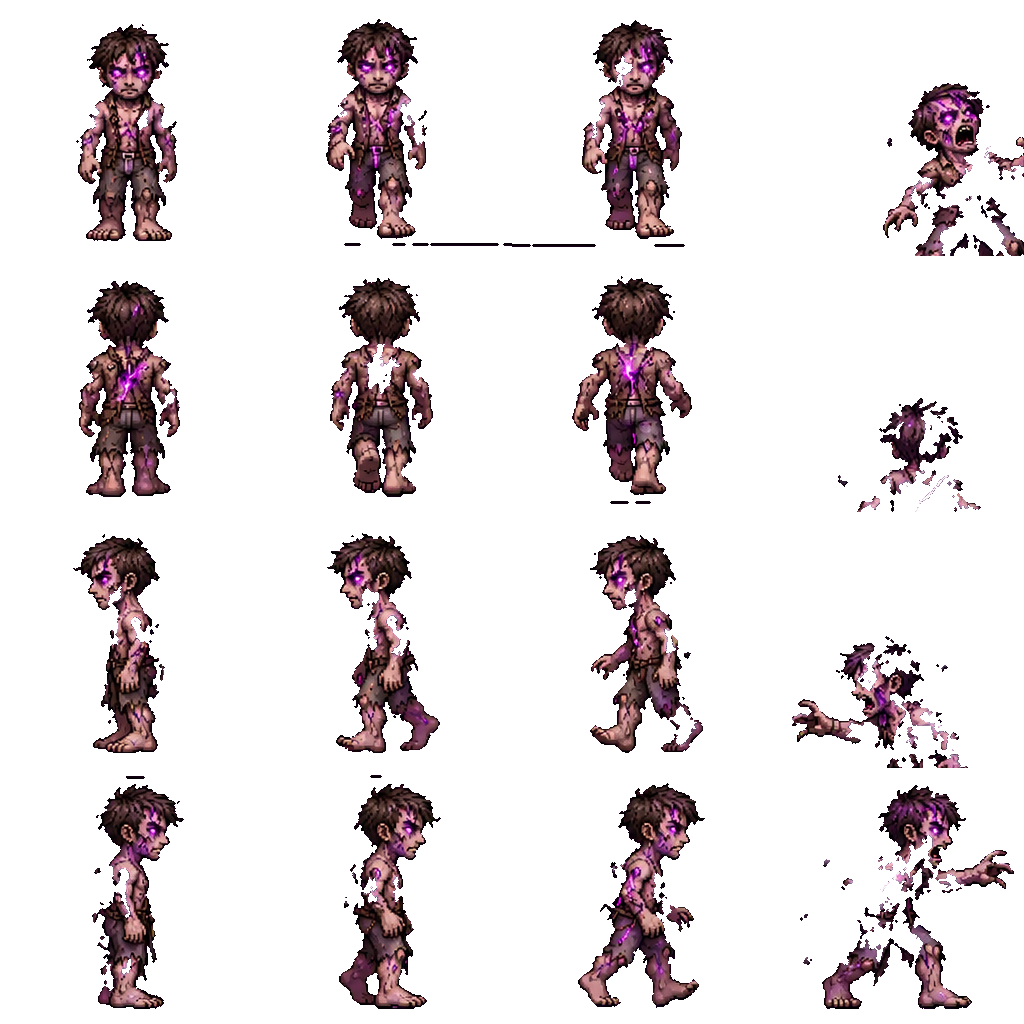
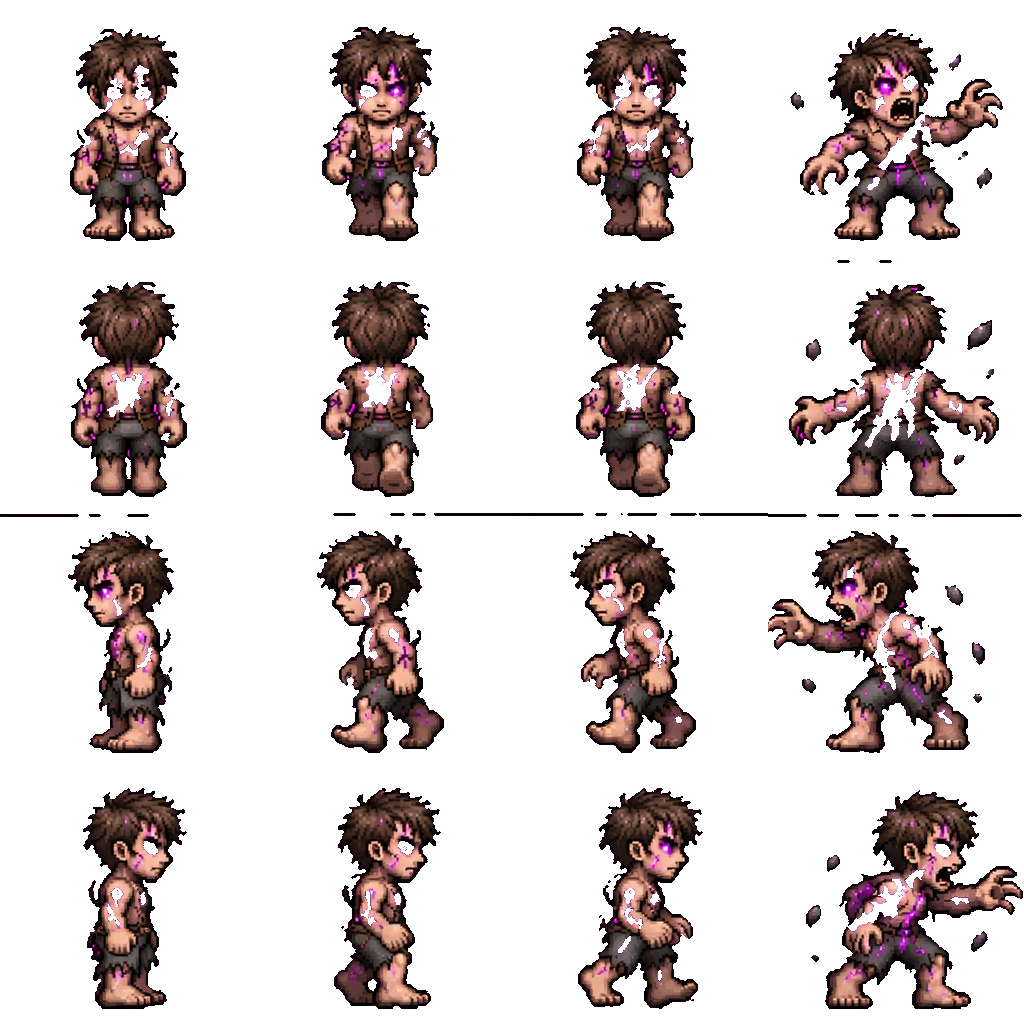
Monstruos nuevos con tamaño normal (brea, pálido sangrante, charcos de carbón, chico corrupto, liches), ícono del carbón, joystick de Lilia a la vista, épicos sin tirar, un MVP de Pablo de cada uno por día, clones duros para otros y fáciles para el dueño, movimiento online más suave
Claude-Session: https://claude.ai/code/session_01VGCmBo3CsU2Xq1dNwQVK9W

diff --git a/www/cenizas.js b/www/cenizas.js
@@ -511,7 +511,7 @@
   ITEMS.lapiz = { n: 'Lápiz de color', t: 'Misión · Pol', d: 'Pol necesita 5. Andan tirados por el teatro de Mariano, Cintia y Romina.', r: 'v' }; ICO('lapiz', 'lapices');
   ITEMS.libreta_sam = { n: 'Libreta de Sam', t: 'Misión · Sam', d: 'Marrón chocolate, con una A y una foto de la ciudad. Devolvésela a Sam.', r: 'a' }; ICO('libreta_sam', 'libreta_sam');
   ITEMS.libreta_renzo = { n: 'Libreta de Renzo', t: 'Misión · Renzo', d: 'Marrón café, con auriculares y un sticker de gatito. Devolvésela a Renzo.', r: 'a' }; ICO('libreta_renzo', 'libreta_renzo');
-  ITEMS.carbon = { n: 'Carbón', t: 'Misión · Darío', d: 'Lo sueltan los monstruos de tinta. Darío quiere 10 para un asado.', r: 'v' }; ICO('carbon', 'piedra_dist');
+  ITEMS.carbon = { n: 'Carbón', t: 'Misión · Darío', d: 'Lo sueltan los monstruos de tinta. Darío quiere 10 para un asado.', r: 'v' }; ICO('carbon', 'carbon');
   ITEMS.joystick_lilia = { n: 'Joystick de Lilia', t: 'Accesorio · ÉPICO · no se rompe', d: 'Con HABILIDAD tirás 3 joysticks en línea hacia donde mirás: explotan como granadas y prenden fuego. Se recarga en 5 segundos, para siempre.', eq: 'acc', act: 'joystick', cd: 5, r: 'e', epic: 1 }; ICO('joystick_lilia', 'joystick_lilia');
   /* armas ÉPICAS de Luna: no se rompen y no gastan balas */
   ITEMS.pistola_veneno = { n: 'Pistola de veneno', t: 'Arma · ÉPICO · de Luna', d: 'Dispara veneno violeta: daña, envenena y deja un charco que sigue envenenando. No se rompe y nunca se queda sin balas.', eq: 'arma', r: 'e', epic: 1 }; ICO('pistola_veneno', 'pistola_veneno');
@@ -983,14 +983,14 @@
     const epic_ = {}; Object.entries(INV.items || {}).forEach(([k, n]) => { if (!(n > 0) || !ITEMS[k]) return; if (isMision(k)) held[k] = (held[k] || 0) + n; else if (ITEMS[k].epic || ITEMS[k].r === 'e') epic_[k] = n; else loot[k] = n; }); /* lo épico nunca se pierde: queda en tu mochila */
     const back = { items: INV.items, eq: INV.eq, q: INV.q, held: INV.held };
     const eq0_ = INV.eq || {}; INV.held = held; INV.items = Object.assign({}, epic_); INV.eq = { arma: 'palo', luz: null, cara: null, brazo: null, ropa: null }; Object.entries(eq0_).forEach(([sl, k]) => { if (k && epic_[k]) INV.eq[sl] = k; }); if (INV.q) Object.keys(INV.q).forEach(sl => INV.q[sl] = null); INV.kitPend = true;
-    const p = { cl: lk, cn: me.nick, x: Math.round(P.x), y: Math.round(P.y), lvl: lvlOf(P.xp) };
+    const p = { cl: lk, cn: me.nick, own: me.id, x: Math.round(P.x), y: Math.round(P.y), lvl: lvlOf(P.xp) };
     if (Object.keys(loot).length) { try { const { data, error } = await sb.from('game_clones').insert({ owner: me.id, nick: me.nick, mode: MODE(), map: mapKey, x: p.x, y: p.y, lvl: p.lvl, look: lk, items: loot }).select('id').single(); if (error || !data) throw error || 0; p.cid = data.id; }
       catch (e) { Object.assign(INV, back); INV.kitPend = false; } } /* si no se pudo guardar el clon, no perdés nada */
     if (EXP && INV.kitPend) { const H = INV.held || {}; INV.held = {}; Object.entries(H).forEach(([k, c]) => addItem(k, c)); setTimeout(() => giveKit({ k: me.faction === 'ork' ? 'mercedes' : 'mary', nm: me.faction === 'ork' ? 'MERCEDES' : 'MARY' }), 1500); } /* en PvP no hay base con Mary/Mercedes: el kit llega solo */
     persist(); quickBtns(); if (isHost) spawnClon(p); else net('clon', p); }
-  function spawnClon(p) { if (p.cid && mobs.some(o => o.cid === p.cid)) return; const o = spawnMob('clon', 0, [p.x, p.y]); if (!o) return; o.cl = p.cl; o.cn = p.cn; o.cid = p.cid || null; o.alpha = 1; needFull = true; }
-  async function loadClones() { if (!isHost || MAP.safeAll) return; const mk0 = mapKey; try { const { data } = await sb.from('game_clones').select('id,nick,x,y,lvl,look').eq('mode', MODE()).eq('map', mapKey).order('created_at', { ascending: false }).limit(8);
-      if (mapKey !== mk0) return; (data || []).forEach(r => spawnClon({ cid: r.id, cn: r.nick, cl: r.look || {}, x: r.x, y: r.y, lvl: r.lvl })); } catch (e) {} }
+  function spawnClon(p) { if (p.cid && mobs.some(o => o.cid === p.cid)) return; const o = spawnMob('clon', 0, [p.x, p.y]); if (!o) return; o.cl = p.cl; o.cn = p.cn; o.cid = p.cid || null; o.own = p.own || null; o.alpha = 1; needFull = true; }
+  async function loadClones() { if (!isHost || MAP.safeAll) return; const mk0 = mapKey; try { const { data } = await sb.from('game_clones').select('id,owner,nick,x,y,lvl,look').eq('mode', MODE()).eq('map', mapKey).order('created_at', { ascending: false }).limit(8);
+      if (mapKey !== mk0) return; (data || []).forEach(r => spawnClon({ cid: r.id, cn: r.nick, own: r.owner, cl: r.look || {}, x: r.x, y: r.y, lvl: r.lvl })); } catch (e) {} }
   async function claimClone(cid, nick) { try { const { data, error } = await sb.rpc('claim_clone', { cid }); if (error || !data) return; const got = []; Object.entries(data).forEach(([k, n]) => { if (ITEMS[k] && n > 0) { addItem(k, n); got.push(ITEMS[k].n + (n > 1 ? ' x' + n : '')); } });
       if (got.length) { SND.level(); buzz([40, 30, 80]); banner('BOTÍN DEL CLON', (nick ? 'De ' + nick + ': ' : '') + got.slice(0, 6).join(', ') + (got.length > 6 ? '…' : ''), 4200, '#c99bff'); quickBtns(); persist(); } } catch (e) {} }
   /* kit de Mary / Mercedes al volver a la base después de morir */
@@ -1002,8 +1002,8 @@
     npcSay(n, KIT_LINE[n.k] || 'Tomá. Seguí.'); setTimeout(() => toast('Kit de supervivencia: chaleco, katana, casco, máscara, vendas, antiveneno y nanocura' + (Object.keys(held).length ? '. Y te devolvieron tus cosas de misión.' : '.')), 1200);
     SND.level(); quickBtns(); hud(); persist(); return true; }
   function hitPlayer(d, knockFrom, knock, byId, mk, melee) { if (P.dead || P.inv > 0 || P.furia > 0 || (!byId && inSafe(P.x, P.y))) return false; if (P.osc10 > 0) return false; if (d < 99999 && Math.random() < Math.min(.5, gearSum('dodge'))) { floats.push({ x: P.x, y: P.y - 200, t: .7, txt: 'ESQUIVASTE', c: '#9fe0b0' }); return false; } if (d < 99999 && /^mvp_(muerte|rosa|slave|joker|distorsion)$|^tinta$/.test(mk || '')) d = Math.max(1, Math.round(d * (1 - Math.min(.95, gearSum('rOsc'))))); if (d < 999) P.lastHitT = Date.now();
-    if (!byId && mk && d < 999 && MOB[mk]) { if (MOB[mk].burn) d = Math.max(1, Math.round(d * (1 - Math.min(.7, gearSum('rFuego'))))); if (MOB[mk].poison) d = Math.max(1, Math.round(d * (1 - Math.min(.7, gearSum('rGas'))))); } if (!byId && mk && d < 999 && MOB[mk]) { if (MOB[mk].burn && !(P.burn > 0) && !gearSum('noBurn')) { P.burn = 5; toast('¡Te prendiste fuego! 5 segundos de quemadura (la venda para quemaduras lo corta).'); } if (MOB[mk].poison && !(P.poison > 0) && !gearSum('noPois')) { P.poison = 25; toast('Te envenenaron. Usá antiveneno.'); } }
-    if (melee && !byId && mk && d < 999 && MOB[mk] && !MOB[mk].passive && !MOB[mk].npc && !MOB[mk].fac) contagiar(MOB[mk].cont); /* solo contagian los Oscuros que pegan cuerpo a cuerpo */
+    if (!byId && mk && d < 999 && MOB[mk]) { if (MOB[mk].burn) d = Math.max(1, Math.round(d * (1 - Math.min(.7, gearSum('rFuego'))))); if (MOB[mk].poison) d = Math.max(1, Math.round(d * (1 - Math.min(.7, gearSum('rGas'))))); } if (!byId && mk && d < 999 && MOB[mk]) { if (MOB[mk].burn && !(P.burn > 0) && !gearSum('noBurn')) { P.burn = 5; toast('¡Te prendiste fuego! 5 segundos de quemadura (la venda para quemaduras lo corta).'); } if (MOB[mk].sombra && !(P.sombraT > 0) && !(gearSum('rOsc') >= .8)) { P.sombraT = 4; toast('Estado sombra: te consume 4 segundos.'); } if (MOB[mk].sangraM && !(P.sangra > 0)) { P.sangra = 4; toast('¡Sangrás!'); } if (MOB[mk].elec) { P.stunT = Math.max(P.stunT || 0, .7); floats.push({ x: P.x, y: P.y - 200, t: .7, txt: 'ELECTRIFICADO', c: '#9fd8ff' }); } if (MOB[mk].poison && !(P.poison > 0) && !gearSum('noPois')) { P.poison = 25; toast('Te envenenaron. Usá antiveneno.'); } }
+    if (melee && !byId && mk && d < 999 && MOB[mk] && !MOB[mk].passive && !MOB[mk].npc && !MOB[mk].fac && !MOB[mk].noCont) contagiar(MOB[mk].cont); /* solo contagian los Oscuros que pegan cuerpo a cuerpo */
     if (P.goo > 0) d *= 2 - Math.min(1, gearSum('rMoco')); if (P.stunT > 0 && mk && MOB[mk] && MOB[mk].mvp) d *= 2.5;
     if (mk && MOB[mk] && MOB[mk].pois5 && d < 999) { P.poison = Math.max(P.poison || 0, 5); P.poisonK = MOB[mk].pois5; }
     d = Math.max(1, Math.round(d * dmgMult() * classMult(mk || (knockFrom && knockFrom.kind) || (byId ? null : 'oscuro'))));
@@ -1067,11 +1067,11 @@
     if (it.use === 'luz') act = '<button class="btn solid" data-a="use">' + (INV.eq.luz ? 'APAGAR' : 'PRENDER') + '</button><button class="btn" data-a="q">' + ((INV.q || {}).esp === invSel ? 'SACAR DEL ACCESO RÁPIDO' : 'PONER EN ESPECIAL RÁPIDO') + '</button>';
     if (it.eq && it.use !== 'luz' && !it.act) { const on = it.eq === 'acc' ? (INV.eq.acc1 === invSel || INV.eq.acc2 === invSel) : INV.eq[it.eq] === invSel; act = '<button class="btn solid" data-a="eq">' + (on ? (it.eq === 'arma' ? 'GUARDAR Y USAR EL PALO' : it.eq === 'luz' ? 'APAGAR' : 'SACAR') : (it.eq === 'luz' ? 'PRENDER' : it.eq === 'arma' ? 'TENER EN LA MANO' : 'EQUIPAR')) + '</button>'; }
     if (it.use && !it.eq && it.use !== 'pilas') act += '<button class="btn" data-a="x">' + ((INV.q || {}).x === invSel ? 'SACAR DEL 4º ACCESO' : 'PONER EN 4º ACCESO') + '</button>';
-    if (invSel !== 'palo' && !/^Historia/.test(it.t)) act += '<button class="btn" data-a="drop">TIRAR</button>';
+    if (invSel !== 'palo' && !/^Historia/.test(it.t) && !(it.epic || it.r === 'e')) act += '<button class="btn" data-a="drop">TIRAR</button>';
     det.innerHTML = '<b' + (it.r ? ' style="color:' + RAR[it.r][1] + '"' : '') + '>' + it.n + (INV.items[invSel] > 1 ? ' ×' + INV.items[invSel] : '') + '</b><small>' + it.t.toUpperCase() + (it.gun ? ' · CARGADOR ' + (INV.dur[invSel] != null ? INV.dur[invSel] : it.mag) + '/' + it.mag + ' · RECARGAS ' + (INV.items[it.ammoK] || 0) : '') + (it.uses ? ' · ' + (invSel === 'pistola' ? 'TIROS ' : 'USOS ') + (INV.dur[invSel] != null ? INV.dur[invSel] : it.uses) + '/' + it.uses : '') + (it.shield ? ' · QUEDA ' + (INV.dur[invSel] != null ? INV.dur[invSel] : it.shield) + '/' + it.shield : '') + '</small><p>' + it.d + '</p>' + (act ? '<div class="row">' + act + '</div>' : '');
     det.querySelectorAll('[data-a]').forEach(b => b.onclick = () => useItem(invSel, b.dataset.a)); }
   function useItem(k, a) { const it = ITEMS[k]; const lv = lvlOf(P.xp); if (it && a === 'use' && hasItem(k) && useItem2(k, it)) return;
-    if (a === 'drop') { if (!hasItem(k)) return; INV.items[k]--; if (!INV.items[k]) { delete INV.items[k]; Object.keys(INV.eq).forEach(sl => { if (INV.eq[sl] === k) INV.eq[sl] = sl === 'arma' ? 'palo' : null; }); if (INV.q) Object.keys(INV.q).forEach(sl => { if (INV.q[sl] === k) INV.q[sl] = null; }); }
+    if (a === 'drop') { if (!hasItem(k) || it.epic || it.r === 'e') return; INV.items[k]--; if (!INV.items[k]) { delete INV.items[k]; Object.keys(INV.eq).forEach(sl => { if (INV.eq[sl] === k) INV.eq[sl] = sl === 'arma' ? 'palo' : null; }); if (INV.q) Object.keys(INV.q).forEach(sl => { if (INV.q[sl] === k) INV.q[sl] = null; }); }
       const fx = P.dir === 'l' ? -1 : P.dir === 'r' ? 1 : 0, fy = P.dir === 'u' ? -1 : P.dir === 'd' ? 1 : 0; let dx_ = P.x + fx * 110, dy_ = P.y + fy * 90; if (!walkable(dx_, dy_)) { dx_ = P.x; dy_ = P.y; }
       const pid = me.id.slice(0, 6) + Date.now(); pickups.push({ k, x: dx_, y: dy_, t: 0, pid, cool: 2.5 }); net('drop', { pid, k, x: Math.round(dx_), y: Math.round(dy_) }); SND.pick(); toast('Tiraste ' + it.n + '. Queda en el piso.'); renderInv(); quickBtns(); hud(); persist(); return; }
     if (a === 'use' && it.use === 'heal') { if (P.hp >= maxHp(lv)) return toast('Ya estás con la vida completa. Guardalo.'); P.hp = maxHp(lv); INV.items[k]--; SND.level(); toast(k === 'kit' ? 'Usaste el kit. Vida completa.' : 'Abriste el maletín. Vida completa.'); }
@@ -1246,15 +1246,19 @@
   mvpM('mvp_gordo', { name: 'EL GORDO', sheet: 'gordo', hp: 2400, dmg: 48, sp: 140, aura: '140,210,255', trap: 1 });
   mvpM('mvp_flaco', { name: 'EL FLACO', sheet: 'flaco', hp: 2000, dmg: 40, sp: 190, aura: '255,240,120', trap: 1 });
   mvpM('mvp_enano', { name: 'EL ENANO', sheet: 'enano', hp: 1800, dmg: 36, sp: 210, aura: '200,120,255', trap: 1 });
-  MOB.lich_inv = Object.assign({}, MOB.errante || {}, { name: 'LICH DORADO', sheet: 'lich', art: 'jefe', pw: 26, ph: 44, hp: 380, dmg: 26, sp: 170, wsp: 60, reach: 70, sight: 2400, wind: .3, cd: .9, xp: 0, coins: 0, respawn: 99999999, aura: '255,220,120', minion: 1 });
-  /* monstruos nuevos de los lugares difíciles */
-  const nmB = (o) => Object.assign({}, MOB.errante || {}, { art: 'jefe', pw: 26, ph: 40, wsp: 60, sight: 620, wind: .25, cd: .8, reach: 70 }, o);
-  MOB.tinta = nmB({ name: 'Monstruo de Tinta', sheet: 'tinta', hp: 14, dmg: 18, sp: 150, xp: 45, coins: 6, poison: 1 });
-  MOB.segador = nmB({ name: 'Segador Dimensional', sheet: 'segador', hp: 16, dmg: 22, sp: 200, xp: 55, coins: 8, reach: 95 });
-  MOB.caminante = nmB({ name: 'Caminante Dimensional', sheet: 'caminante', hp: 12, dmg: 16, sp: 230, xp: 40, coins: 5 });
-  MOB.lich = nmB({ name: 'Lich Dorado', sheet: 'lich', hp: 20, dmg: 22, sp: 170, xp: 70, coins: 10, aura: '255,220,120', lumen: 1 });
-  const NEW_AT = { lab: { tinta: 2, segador: 1 }, lab_cuarentena: { tinta: 2, segador: 1, lich: 1 }, lab_prision: { tinta: 2 }, lab_maldito: { segador: 1, caminante: 1 }, bunker: { caminante: 2, segador: 1 }, puente: { caminante: 1, tinta: 1 },
-    arena_final: { segador: 2, lich: 1 }, chino_der: { tinta: 2, caminante: 1 }, chino_mercado: { tinta: 1, caminante: 2 }, complejo8c: { segador: 1, tinta: 1 }, paseo_fluvial: { caminante: 1 }, monumento_cerrado: { tinta: 1, segador: 1 }, callejon_1: { caminante: 1, tinta: 1 } };
+  MOB.lich_inv = nm_('errante', { name: 'LICH DORADO', sheet: 'lich_inv', hp: 380, dmg: 26, sp: 170, wsp: 60, reach: 70, sight: 2400, wind: .3, cd: .9, xp: 0, coins: 0, respawn: 99999999, aura: '255,220,120', minion: 1 });
+  /* monstruos nuevos de los lugares difíciles (tamaño de Oscuro común) */
+  const nmB = (o) => nm_('errante', Object.assign({ wsp: 50, sight: 600, wind: .25, cd: .85, reach: 66 }, o));
+  MOB.tinta = nmB({ name: 'Hombre de Brea', sheet: 'tinta', hp: 14, dmg: 18, sp: 150, xp: 45, coins: 6, sombra: 1, carbon: .12, noCont: 1 });
+  MOB.sangre = nmB({ name: 'Pálido Sangrante', sheet: 'sangre', hp: 14, dmg: 18, sp: 160, xp: 45, coins: 6, sangraM: 1, noCont: 1 });
+  MOB.brea_a = nmB({ name: 'Charco de Brea', sheet: 'brea_a', ambush: 'brea_a_charco', hp: 13, dmg: 17, sp: 165, wsp: 0, sight: 300, xp: 50, coins: 6, sombra: 1, carbon: .25, noCont: 1 });
+  MOB.brea_b = nmB({ name: 'Charco de Carbón', sheet: 'brea_b', ambush: 'brea_b_charco', hp: 15, dmg: 19, sp: 150, wsp: 0, sight: 300, xp: 55, coins: 7, sombra: 1, carbon: .3, noCont: 1 });
+  MOB.segador = nmB({ name: 'Segador Dimensional', sheet: 'segador', hp: 16, dmg: 22, sp: 200, xp: 55, coins: 8, reach: 90 });
+  MOB.caminante = nmB({ name: 'Chico Corrupto', sheet: 'caminante', hp: 12, dmg: 16, sp: 220, xp: 40, coins: 5, elec: 1 });
+  MOB.lich = nmB({ name: 'Lich de la Capa Oscura', sheet: 'lich', hp: 20, dmg: 22, sp: 170, xp: 70, coins: 10, aura: '255,220,120', lumen: 1 });
+  SKN.push('brea_a_charco', 'brea_b_charco');
+  const NEW_AT = { lab: { tinta: 2, segador: 1, brea_a: 1 }, lab_cuarentena: { tinta: 1, segador: 1, lich: 1, sangre: 2 }, lab_prision: { tinta: 2, brea_b: 1 }, lab_maldito: { segador: 1, caminante: 1, sangre: 1 }, bunker: { caminante: 2, segador: 1, sangre: 1 }, puente: { caminante: 1, tinta: 1, brea_a: 1 }, garaje: { brea_a: 2, sangre: 1 }, garaje_sub: { brea_b: 2, tinta: 1, sangre: 1 },
+    arena_final: { segador: 2, lich: 1 }, chino_der: { tinta: 2, caminante: 1, brea_b: 1 }, chino_mercado: { tinta: 1, caminante: 2, sangre: 1 }, complejo8c: { segador: 1, tinta: 1, brea_a: 1 }, paseo_fluvial: { caminante: 1 }, monumento_cerrado: { tinta: 1, segador: 1 }, callejon_1: { caminante: 1, tinta: 1 } };
   Object.entries(NEW_AT).forEach(([k, w]) => { if (MAPS[k] && !MAPS[k].mvp && !MAPS[k].safeAll) MAPS[k].mobs = Object.assign({}, MAPS[k].mobs || {}, w); });
   /* camillas del hospital (detrás de una, el grito no te aturde) */
   const CAMILLAS = [[350, 240], [840, 230], [1220, 230], [130, 480], [560, 480], [1090, 480], [1550, 480], [520, 720], [1110, 720]];
@@ -1265,15 +1269,15 @@
   function banner(txt, sub, ms, col) { const b = $('#mvp-ban'); if (!b) return; b.innerHTML = '<b' + (col ? ' style="color:' + col + '"' : '') + '>' + txt + '</b>' + (sub ? '<small>' + sub + '</small>' : ''); b.hidden = false; b.classList.remove('pop'); void b.offsetWidth; b.classList.add('pop'); clearTimeout(banner.t); banner.t = setTimeout(() => b.hidden = true, ms || 2200); }
   function openLib(lk) { const L = LIBS[lk]; if (!storyFin()) return toast(L.tab ? 'El tablero no responde. Terminá la historia.' : L.nm + ': las páginas están pegadas con ceniza. Terminá la historia para poder abrirla.');
     if (lk === 'sofia' && !(INV.mvpPistas || []).length) return toast('LIBRETA DE SOFÍA: tiene un candado de sangre. Las pistas de la libreta de Pablo te dicen cómo abrirlo.');
-    paused = true; const ov = $('#ov-lib'); ov.hidden = false; ov.dataset.lib = lk; const done = L.tab ? false : INV.mvpDay === dayN(); const box = ov.querySelector('.libl'); box.innerHTML = '';
+    paused = true; const ov = $('#ov-lib'); ov.hidden = false; ov.dataset.lib = lk; const done = false; const box = ov.querySelector('.libl'); box.innerHTML = '';
     const det = ov.querySelector('.libd'); const pick = mk => { const M = MVPS[mk], won = (INV.mvpWon || {})[mk]; box.querySelectorAll('button').forEach(b => b.classList.toggle('on', b.dataset.mk === mk));
       det.innerHTML = '<img src="/a/ob/mvp_' + mk + '.webp" alt=""><b>' + M.n + '</b><small>' + M.txt + '</small>' + (won ? '<em>VENCIDO ×' + won + '</em>' : '') + (M.pista && won ? '<em>PISTA: "' + M.pista + '"</em>' : '');
-      const go = document.createElement('button'); go.className = 'libgo'; const dn = L.tab ? mvpDone(mk) : done, miss = L.tab ? (M.req || []).filter(r => !hasItem(r)) : []; go.textContent = dn ? 'HASTA MAÑANA' : miss.length ? 'FALTA: ' + miss.map(r => ITEMS[r].n).join(' + ') : L.tab ? 'PONER FUSIBLES' : 'ENFRENTAR'; go.disabled = dn || miss.length > 0; go.onclick = () => { closeLib(); if (L.tab) { (M.req || []).forEach(r => { INV.items[r]--; if (!INV.items[r]) delete INV.items[r]; }); persist(); } startMvp(mk); }; det.appendChild(go); };
+      const go = document.createElement('button'); go.className = 'libgo'; const dn = mvpDone(mk), miss = L.tab ? (M.req || []).filter(r => !hasItem(r)) : []; go.textContent = dn ? 'HASTA MAÑANA' : miss.length ? 'FALTA: ' + miss.map(r => ITEMS[r].n).join(' + ') : L.tab ? 'PONER FUSIBLES' : 'ENFRENTAR'; go.disabled = dn || miss.length > 0; go.onclick = () => { closeLib(); if (L.tab) { (M.req || []).forEach(r => { INV.items[r]--; if (!INV.items[r]) delete INV.items[r]; }); persist(); } startMvp(mk); }; det.appendChild(go); };
     L.list.forEach(mk => { const b = document.createElement('button'); b.dataset.mk = mk; b.setAttribute('aria-label', MVPS[mk].n); b.onclick = () => pick(mk); box.appendChild(b); });
     pick(L.list[0]);
     ov.querySelector('.libn').textContent = L.tab ? 'Poné los fusibles: todos los que estén en este mapa entran con vos. Se gastan.' : done ? 'Ya venciste a un MVP hoy. Si otro jugador abre la libreta, podés ir con él.' : 'Todos los que estén en este mapa vienen con vos.' + ((INV.mvpPistas || []).length ? ' Pistas: ' + INV.mvpPistas.join(' · ') : ''); }
   function closeLib() { $('#ov-lib').hidden = true; paused = false; }
-  function startMvp(mk) { if (MVPS[mk].lib && INV.mvpDay === dayN()) return; net('mvpgo', { mk, from: mapKey, by: me.nick }); goMvp(mk, me.nick); }
+  function startMvp(mk) { if (mvpDone(mk)) return; net('mvpgo', { mk, from: mapKey, by: me.nick }); goMvp(mk, me.nick); }
   function goMvp(mk, by) { const M = MVPS[mk]; if (!M || !MAPS[M.map]) return; INV.mvpBack = { map: mapKey, x: Math.round(P.x / WS), y: Math.round(P.y / WS) }; persist(); banner(M.n, mk === 'lilia' ? (by === me.nick ? 'Escribiste su nombre…' : by + ' escribió su nombre…') : LIBS.tablero && LIBS.tablero.list.includes(mk) ? (by === me.nick ? 'Pusiste los fusibles…' : by + ' puso los fusibles…') : by === me.nick ? 'Abriste la libreta…' : by + ' abrió la libreta…', 2400, '#ff5a6a'); SND.mob('roar', .4); setTimeout(() => warpTo(M.map), 900); }
   function mvpBack(msg) { const M0_ = MVPS[MVP_BY_MAP[mapKey]], b = INV.mvpBack || { map: M0_ && M0_.lib && LIBS[M0_.lib] ? LIBS[M0_.lib].map : 'senado' }; if (P.dead) { P.dead = false; P.hp = maxHp(lvlOf(P.xp)); $('#ov-dead').hidden = true; } P.hp = Math.max(P.hp, maxHp(lvlOf(P.xp)) * .6); if (msg) toast(msg); mvpEv = null; warpTo(b.map, b.x, b.y); }
   /* al entrar a un mapa de MVP */
@@ -1494,7 +1498,7 @@
       for (const [id, o] of others) { if (!o.dead && Math.hypot(o.x - nx, (o.y - ny) * 1.2) < 70) { stop = o; break; } } if (stop) break; if (!walkable(nx, ny)) { wall = true; break; } P.x = nx; P.y = ny; }
     sendPos(true); if (stop) { floats.push({ x: P.x, y: P.y - 210, t: 1, txt: 'TE FRENÓ ' + (stop.nick || '').toUpperCase(), c: '#9fe0b0' }); return; }
     if (wall) { P.stunT = Math.max(P.stunT || 0, 2.5); P.aturd = Math.max(P.aturd || 0, 2.5); shake = .5; hitPlayer(Math.round(maxHp(lvlOf(P.xp)) * .08), null, 0, null, 'oscuro'); toast('¡Contra la pared! Quedaste atontado.'); } }
-  function pfxTick(dt) { if (P.revT > 0) P.revT -= dt; if (P.manipT > 0) P.manipT -= dt; if (P.polen > 0) P.polen -= dt; if (P.osc10 > 0) P.osc10 -= dt; if (P.sprint > 0) P.sprint -= dt; if (P.elemT > 0) { P.elemT -= dt; if (INV.eq.arma !== P.elemW) P.elemT = 0; }
+  function pfxTick(dt) { if (P.sombraT > 0 && !P.dead) { P.sombraT -= dt; P.sombH = (P.sombH || 0) + dt; if (P.sombH > .5) { P.sombH = 0; const d = Math.max(1, Math.round(maxHp(lvlOf(P.xp)) * .025)); P.hp -= d; floats.push({ x: P.x, y: P.y - 190, t: .6, txt: '-' + d, c: '#b080ff' }); if (P.hp <= 0) { P.hp = 1; hitPlayer(99999, null, 0, null, 'tinta'); } hud(); } } if (P.revT > 0) P.revT -= dt; if (P.manipT > 0) P.manipT -= dt; if (P.polen > 0) P.polen -= dt; if (P.osc10 > 0) P.osc10 -= dt; if (P.sprint > 0) P.sprint -= dt; if (P.elemT > 0) { P.elemT -= dt; if (INV.eq.arma !== P.elemW) P.elemT = 0; }
     if (P.spinT > 0 && !P.dead) { P.spinT -= dt; P.spinR = (P.spinR || 0) + dt; if (P.spinR > .12) { P.spinR = 0; P.dir = { d: 'l', l: 'u', u: 'r', r: 'd' }[P.dir] || 'd'; } P.spinH = (P.spinH || 0) + dt; if (P.spinH > .5) { P.spinH = 0; const d = Math.round(maxHp(lvlOf(P.xp)) * .03); P.hp -= d; floats.push({ x: P.x, y: P.y - 190, t: .6, txt: '-' + d, c: '#d8a0ff' }); if (P.hp <= 0) { P.hp = 1; hitPlayer(99999, null, 0, null, 'mvp_distorsion'); } hud(); }
       for (const [, o] of others) if (!o.dead && Math.hypot(o.x - P.x, (o.y - P.y) * 1.2) < 90) { P.spinT = 0; toast('Te sacaron de la distorsión.'); break; } } }
   /* muerte evitada por los objetos de la Muerte y del Tiempo */
@@ -1608,7 +1612,7 @@
     /* revivir: botón cuando estás al lado de un caído */
     const dn = [...others.entries()].find(([id, o]) => o.dead && Math.hypot(o.x - P.x, (o.y - P.y) * 1.2) < 140); mvpEv.rev = dn ? dn[0] : null; }
   function mvpWon(kind) { if (!mvpEv || mvpEv.over) return; const mk = Object.keys(MVPS).find(k => (MVPS[k].kinds || [MVPS[k].kind]).includes(kind)); if (!mk) return; mvpEv.over = true; const M = MVPS[mk];
-    if (mk === 'lilia') INV.liliaDay = dayN(); else if (M.lib) INV.mvpDay = dayN(); else { INV.mvpD = INV.mvpD || {}; INV.mvpD[mk] = dayN(); } INV.mvpWon = INV.mvpWon || {}; INV.mvpWon[mk] = (INV.mvpWon[mk] || 0) + 1;
+    if (mk === 'lilia') INV.liliaDay = dayN(); else { INV.mvpD = INV.mvpD || {}; INV.mvpD[mk] = dayN(); } INV.mvpWon = INV.mvpWon || {}; INV.mvpWon[mk] = (INV.mvpWon[mk] || 0) + 1;
     banner('¡VENCIERON!', M.n + ' cayó', 3500, '#ffd860'); SND.level(); buzz([60, 40, 120]);
     if (P.dead) { P.dead = false; P.hp = maxHp(lvlOf(P.xp)) * .5; $('#ov-dead').hidden = true; }
     /* premio para todos los que estén: oro + 2 cosas comunes */
@@ -1745,7 +1749,7 @@
     Object.entries(w).forEach(([k, n]) => { let have = mobs.filter(o => o.kind === k).length; const wait = MOB[k].respawn || 12000;
       if (!lastDeath[k]) { while (have < n) { if (!spawnMob(k, 560)) break; have++; } lastDeath[k] = 1; }
       else if (have < n && now - lastDeath[k] > wait) spawnMob(k, 560); }); }
-  function mobHit(o, dmg, kx, ky, byId, lc) { if (!o || o.hp <= 0 || o.T.passive) return; if (o.T.ai === 'angel' && o.st !== 'strike' && !lc) return; /* La Quieta: quieta solo la lastiman lanza y cadena */ if (o.tame) return; if (o.A && o.T.mvp !== undefined) { const A_ = o.A; if (A_.inv || A_.stone) { mvpFlt(o, A_.stone ? 'DE PIEDRA' : 'INMUNE'); return; } if (o.T.dodge && Math.random() < o.T.dodge) { mvpFlt(o, 'ESQUIVÓ'); return; } if (A_.dmul) dmg = Math.max(1, Math.round(dmg * A_.dmul)); A_.hits = (A_.hits || 0) + 1; } if (o.T.trap && mobs.some(m => m !== o && m.T.trap && m.hp > 0 && Math.hypot(m.x - o.x, m.y - o.y) < 380)) { dmg = Math.max(1, Math.round(dmg * .15)); mvpFlt(o, 'JUNTOS'); } o.hp -= dmg; o.hurt = .2; o.hitters.add(byId); o.lastBy = byId; o.lhT = performance.now(); o.chasing = true;
+  function mobHit(o, dmg, kx, ky, byId, lc) { if (!o || o.hp <= 0 || o.T.passive) return; if (o.T.ai === 'angel' && o.st !== 'strike' && !lc) return; /* La Quieta: quieta solo la lastiman lanza y cadena */ if (o.tame) return; if (o.A && o.T.mvp !== undefined) { const A_ = o.A; if (A_.inv || A_.stone) { mvpFlt(o, A_.stone ? 'DE PIEDRA' : 'INMUNE'); return; } if (o.T.dodge && Math.random() < o.T.dodge) { mvpFlt(o, 'ESQUIVÓ'); return; } if (A_.dmul) dmg = Math.max(1, Math.round(dmg * A_.dmul)); A_.hits = (A_.hits || 0) + 1; } if (o.cl && o.own) { if (byId === o.own) dmg = Math.max(dmg, Math.ceil((o.mhp || o.T.hp) * .35)); else { dmg = Math.max(1, Math.round(dmg * .07)); mvpFlt(o, 'NO ES TUYO'); } } if (o.T.trap && mobs.some(m => m !== o && m.T.trap && m.hp > 0 && Math.hypot(m.x - o.x, m.y - o.y) < 380)) { dmg = Math.max(1, Math.round(dmg * .15)); mvpFlt(o, 'JUNTOS'); } o.hp -= dmg; o.hurt = .2; o.hitters.add(byId); o.lastBy = byId; o.lhT = performance.now(); o.chasing = true;
     if (!o.T.heavy) { o.wind = Math.max(0, o.wind - .12); const nx = o.x + kx, ny = o.y + ky; if (mobWalk(nx, ny)) { o.x = nx; o.y = ny; } }
     if (o.st === 'run') { o.st = 'rest'; o.stT = 1.1; } if (o.hp <= 0) killMob(o); }
   function hitMob(o, dmg, kx, ky, fx_) { if (o && (o.ally || o.tame)) { floats.push({ x: o.x, y: o.y - (o.T.h || 120) - 30, t: .6, txt: 'ALIADO', c: '#b080ff' }); return; } if (o && o.T && !o.T.passive && INV) { const r_ = gearHit(o, dmg, fx_, kx, ky); dmg = r_[0]; fx_ = r_[1]; kx = r_[2]; ky = r_[3]; } if (o && o.kind === 'mvp_natsume' && fx_ && (fx_.stun === .6 || fx_.c === 'f')) dmg *= 3; if (eqHas('brz_chino') || eqHas('brz_bianca')) fx_ = Object.assign({ slow: 2.5 }, fx_ || {}); if (eqHas('brz_chita') && o && o.T) { P.chitaN = (P.chitaN || 0) + 1; if (P.chitaN >= 4) { P.chitaN = 0; fx_ = Object.assign({}, fx_ || {}, { stun: o.T.boss ? 2 : 5, k: 'stun' }); floats.push({ x: o.x, y: o.y - (o.T.h || 150) - 20, t: .8, txt: 'ATONTADO', c: '#9fd0ff' }); } } if (o && o.T) { const hy = o.y - (o.T.h || 150) * .45; fxs.length < 60 && fxs.push({ k: 'chispa', x: o.x + rnd(-14, 14), y: hy, t: 0, T: .18, ang: rnd(0, 6), s: 1, grow: .4, w: 70 }); } const fx = fx_; if (o.T.passive) { floats.push({ x: o.x, y: o.y - o.T.h - 30, t: .7, txt: 'HABLALE', c: '#ffb0c8' }); return; } const lc = /^(lanza|cadena)/.test(curW()); if (o.T.ai === 'angel' && o.st !== 'strike' && !lc) { floats.push({ x: o.x, y: o.y - o.T.h - 30, t: .7, txt: 'NO SE DEJA', c: '#b8b2a8' }); return; } if (o.T.fac && o.T.fac === me.faction) { floats.push({ x: o.x, y: o.y - o.T.h - 30, t: .6, txt: 'ALIADO', c: '#8fd0ff' }); return; } if (INV.eq.luz && !o.T.human && Math.hypot(o.x - P.x, o.y - P.y) < 520) dmg = Math.round(dmg * 1.25); o.hurt = .2; floats.push({ x: o.x + rnd(-10, 10), y: o.y - o.T.h * .8, t: .8, txt: '-' + dmg, c: '#ffffff' });
@@ -1767,7 +1771,7 @@
     if (T.mvp) { if (T.next) { if (isHost) { const n_ = spawnMob(T.next, 0, [p.x, p.y]); if (n_) { n_.chasing = true; n_.alpha = .2; } } banner(MOB[T.next].name, T.next === 'mvp_rocio' ? 'La hija de Rosa' : 'La otra hija de Rosa', 2600, '#ff7ad0'); }
       else if (!mobs.some(m => m.T.mvp && m.hp > 0)) { if (p.kind === 'mvp_natsume') { butterflies(p.x, p.y); banner('MARIPOSAS', 'Las tres se desvanecen en luz…', 3000, '#ffb0e0'); } mvpWon(p.kind); } }
     if (!p.by.includes(me.id)) return;
-    if (p.kind === 'tinta' && Math.random() < .12) { addItem('carbon', 1); floats.push({ x: p.x, y: p.y - T.h - 40, t: 1.2, txt: '+ CARBÓN', c: '#b0b0c0' }); }
+    if (T.carbon && Math.random() < T.carbon) { addItem('carbon', 1); floats.push({ x: p.x, y: p.y - T.h - 40, t: 1.2, txt: '+ CARBÓN', c: '#b0b0c0' }); }
     if (p.kind === 'lich' && Math.random() < .006) { const k_ = ['lanza_lumen', 'espada_lumen', 'ballesta_lumen', 'arco_lumen', 'cruz_lumen', 'venda_oscura', 'venda_lumen'][(Math.random() * 7) | 0]; addItem(k_, 1); persist(); banner('¡OBJETO DE LUMEN!', ITEMS[k_].n, 3600, '#ffe08a'); SND.level(); }
     if (CERA_MAPS.includes(mapKey) && !(INV.quests || {}).lumen_velas && Math.random() < .3) { addItem('cera', 1); floats.push({ x: p.x, y: p.y - T.h - 40, t: 1.2, txt: '+ CERA', c: '#f5d27a' }); }
     INV.racha = 0; if (window.CZ_STORY && STORY) CZ_STORY.kill(p.kind, p.x, p.y);
@@ -1794,7 +1798,7 @@
     if (lvlOf(P.xp) > lvBefore) { P.hp += maxHp(lvlOf(P.xp)) - maxHp(lvBefore); SND.level(); buzz([40, 40, 90]); setTimeout(() => toast('SUBISTE A NIVEL ' + lvlOf(P.xp) + ' · pegás ' + playerDmg()), 500); checkUnlocks(); }
     hud(); }
   /* ---------- red: SOLO / MULTI_HOST / MULTI_CLIENT (ver cenizas-net.js) ---------- */
-  const NET = Object.assign({ NET_TICK_HZ: 10, FULL_SNAPSHOT_INTERVAL_MS: 2000, INTERP_BUFFER_MS: 100, MAX_EXTRAPOLATION_MS: 200, POS_EPSILON: .5, HIDDEN_UNTRACK_MS: 60000, AFK_MS: 180000 }, window.CZ_NET || {});
+  const NET = Object.assign({ NET_TICK_HZ: 10, FULL_SNAPSHOT_INTERVAL_MS: 2000, INTERP_BUFFER_MS: 170, MAX_EXTRAPOLATION_MS: 260, POS_EPSILON: .5, HIDDEN_UNTRACK_MS: 60000, AFK_MS: 180000 }, window.CZ_NET || {});
   let netMode = 'SOLO', peers = 0, gotFull = true, needFull = false, lastFull = 0, lastPlayerSent = null, lastInput = Date.now(), netPaused = false, tracked = false, hiddenT = null;
   const lastEnemy = new Map(), NETC = { sent: 0, recv: 0, ring: [] };
   function net(event, payload) { if (!ch || peers < 1 || netPaused) return false; ch.send({ type: 'broadcast', event, payload }); NETC.sent++; return true; }
@@ -1805,7 +1809,7 @@
   const flagsOf = o => (o.moving ? 1 : 0) | (o.wind > 0 ? 2 : 0) | (o.lunge > .3 ? 4 : 0) | (o.chasing ? 8 : 0) | (o.tame || o.charm > 0 ? 16 : 0) | (o.A && (o.A.inv || o.A.stone) ? 32 : 0);
   /* anfitrión: un paquete por tick con los Oscuros que cambiaron; completo cada 2 s */
   function sendEnemies() { const now = Date.now(), full = needFull || now - lastFull >= NET.FULL_SNAPSHOT_INTERVAL_MS; const e = [];
-    mobs.forEach(o => { const row = [o.id, Math.round(o.x), Math.round(o.y), STC.indexOf(o.st), Math.ceil(o.hp), MKEYS.indexOf(o.kind), o.face, flagsOf(o), Math.round(o.vis * 10), o.combo % 3, Math.max(0, SKN.indexOf(o.sk)), o.cl ? JSON.stringify([o.cl, o.cn, o.cid || null]) : 0];
+    mobs.forEach(o => { const row = [o.id, Math.round(o.x), Math.round(o.y), STC.indexOf(o.st), Math.ceil(o.hp), MKEYS.indexOf(o.kind), o.face, flagsOf(o), Math.round(o.vis * 10), o.combo % 3, Math.max(0, SKN.indexOf(o.sk)), o.cl ? JSON.stringify([o.cl, o.cn, o.cid || null, o.own || null]) : 0];
       const l = lastEnemy.get(o.id); if (full || !l || Math.abs(l[1] - row[1]) > NET.POS_EPSILON || Math.abs(l[2] - row[2]) > NET.POS_EPSILON || l.slice(3).join() !== row.slice(3).join()) { e.push(row); lastEnemy.set(o.id, row); } });
     if (!full && !e.length) return; if (full) { lastFull = now; needFull = false; [...lastEnemy.keys()].forEach(id => { if (!mobs.some(o => o.id === id)) lastEnemy.delete(id); }); }
     net('enemies', { t: now, full, e, pk: full ? pickups.filter(q => q.k !== 'suero').map(q => [q.pid, q.k, Math.round(q.x), Math.round(q.y)]) : undefined }); }
@@ -1817,7 +1821,7 @@
     if (p.pk) { const keep = pickups.filter(q => q.k === 'suero' || (q.cool > 0)); const have = new Set(keep.map(q => q.pid)); pickups.length = 0; keep.forEach(q => pickups.push(q)); p.pk.forEach(([pid, k, x, y]) => { if (!have.has(pid) && ITEMS[k]) pickups.push({ k, x, y, t: Math.random() * 6, pid }); }); } const seen = p.full ? new Set() : null;
     p.e.forEach(([id, x, y, sti, hp, ki, face, fl, vis, combo, ski, cli]) => { if (seen) seen.add(id); const kind = MKEYS[ki]; if (!kind) return; let o = mobs.find(m => m.id === id);
       if (!o) { o = newMob(kind, id, x, y); o.alpha = 1; mobs.push(o); } pushBuf(o, x, y);
-      const wasWind = o.wind > 0, wasChase = o.chasing; o.hp = hp; o.face = face; o.moving = !!(fl & 1); o.wind = fl & 2 ? Math.max(o.wind, .01) : 0; if (fl & 4) o.lunge = 1; o.chasing = !!(fl & 8); o.ally = !!(fl & 16); o.stoneF = !!(fl & 32); o.vis = vis / 10; o.st = STC[sti] || 'idle'; o.combo = combo; o.sk = SKN[ski || 0] || null; if (cli && !o.cl) { try { const q = JSON.parse(cli); o.cl = q[0]; o.cn = q[1]; o.cid = q[2] || null; } catch (e) {} }
+      const wasWind = o.wind > 0, wasChase = o.chasing; o.hp = hp; o.face = face; o.moving = !!(fl & 1); o.wind = fl & 2 ? Math.max(o.wind, .01) : 0; if (fl & 4) o.lunge = 1; o.chasing = !!(fl & 8); o.ally = !!(fl & 16); o.stoneF = !!(fl & 32); o.vis = vis / 10; o.st = STC[sti] || 'idle'; o.combo = combo; o.sk = SKN[ski || 0] || null; if (cli && !o.cl) { try { const q = JSON.parse(cli); o.cl = q[0]; o.cn = q[1]; o.cid = q[2] || null; o.own = q[3] || null; } catch (e) {} }
       if (o.wind > 0 && !wasWind) { if (o.T.heavy) SND.mob('roar', .2); else SND.warn(); } if (o.chasing && !wasChase) SND.mob(o.T.snd, .2); });
     if (seen) { for (let i = mobs.length - 1; i >= 0; i--) if (!seen.has(mobs[i].id)) mobs.splice(i, 1); gotFull = true; } }
   /* interpolación con ~100 ms de atraso; si no llega nada, adivina hasta 200 ms y se congela */
@@ -1853,7 +1857,7 @@
     for (let i = clouds.length - 1; i >= 0; i--) { const c0 = clouds[i]; c0.ttl -= dt; if (c0.ttl <= 0) { clouds.splice(i, 1); continue; }
       if (!P.dead && Math.hypot(P.x - c0.x, (P.y - c0.y) * 1.4) < c0.r) { c0.tick -= dt; if (c0.tick <= 0) { c0.tick = .5; hitPlayer(6, null, 0, null, 'sofia'); } } } }
   /* ataque de un Oscuro sobre un jugador: si soy yo me pega acá; si es otro, le aviso */
-  function strikeOn(pl, d, from, knock) { if (from && from.kind === 'mole') fx('impacto_pesado', pl.x, pl.y - 30, { w: 210, T: .45, grow: .3 }); d = Math.round(d * (from.lvK || 1)); if (pl.me) hitPlayer(d, from, knock, null, from.kind, true); else net('mstrike', { to: pl.id, d, x: Math.round(from.x), y: Math.round(from.y), k: knock || 0, mk: from.kind }); }
+  function strikeOn(pl, d, from, knock) { if (from && from.cl && from.own && pl.id === from.own) d = Math.max(1, Math.round(d * .12)); if (from && from.kind === 'mole') fx('impacto_pesado', pl.x, pl.y - 30, { w: 210, T: .45, grow: .3 }); d = Math.round(d * (from.lvK || 1)); if (pl.me) hitPlayer(d, from, knock, null, from.kind, true); else net('mstrike', { to: pl.id, d, x: Math.round(from.x), y: Math.round(from.y), k: knock || 0, mk: from.kind }); }
   /* desbloqueos de jefes: los calcula Supabase con el mejor nivel de cada uno */
   let unlockT = 0;
   async function checkUnlocks() { if (EXP) return; try { await persist(); const { data, error } = await sb.rpc('game_unlocks'); if (error || !data) return; const before = Object.assign({}, unlocks); unlocks = data;
@@ -2004,7 +2008,7 @@
   function leerNota(n) { const N = INV.notas = INV.notas || {}; if ((N[n.g] || 0) <= n.i) { N[n.g] = n.i + 1; persist(); SND.pick(); }
     npcSay(n, n.txt + (n.i < 2 ? '' : '')); }
   /* el joystick del Senado: teclado desordenado; LILIA te lleva adentro */
-  function joyNpcs() { if (mapKey !== 'senado' || EXP) return []; const [x, y] = spotNear('joystick', 160, 300); return [{ obj: 1, joy: 1, k: 'joystick_senado', nm: 'JOYSTICK', x, y, oh: 80 }]; }
+  function joyNpcs() { if (mapKey !== 'senado' || EXP) return []; const [x, y] = [1250, 700]; return [{ obj: 1, joy: 1, k: 'joystick_senado', nm: 'JOYSTICK', x, y, oh: 80 }]; }
   function openJoy() { if (INV.liliaDay === dayN()) return toast('El joystick está frío. Lilia ya cayó hoy: volvé mañana.');
     paused = true; let ov = $('#ov-joy'); if (!ov) { ov = document.createElement('div'); ov.id = 'ov-joy'; ov.className = 'ov'; document.body.appendChild(ov); }
     const L = 'ABCDEFGHIJKLMNOPQRSTUVWXYZ'.split('').sort(() => Math.random() - .5); let tx = '';
@@ -2380,7 +2384,7 @@
           fx(shooter ? 'bala' : ['tajo_corto', 'impacto'][(Math.random() * 2) | 0], em.x, em.y - (em.T.h || 120) * .5, { w: 120, T: .3, flip: dx < 0 });
           floats.push({ x: em.x, y: em.y - (em.T.h || 150) * .8, t: .7, txt: '-' + dmg, c: '#9fe0ff' }); const by = em.lastBy; mobHit(em, dmg, dx > 0 ? 14 : -14, 0, by); } }
       o.t += dt; o.hurt = Math.max(0, o.hurt - dt); o.lunge = Math.max(0, o.lunge - dt * 3); return true; }
-    mobs.slice().forEach(o => { const T = o.T; if (mobStatus(o, dt)) { o.t += dt; o.hurt = Math.max(0, o.hurt - dt); return; } if ((o.tame || o.charm > 0) && allyMobAI(o, dt)) return; if (T.ai === 'mvp') { mvpAI(o, dt, live, strikeOn); return; } o.t += dt; o.alpha = Math.min(1, o.alpha + dt * .8); o.hurt = Math.max(0, o.hurt - dt); o.cd = Math.max(0, o.cd - dt); o.lunge = Math.max(0, o.lunge - dt * 3); o.stT -= dt; o.ab -= dt; o.shotT -= dt;
+    mobs.slice().forEach(o => { const T = o.T; if (mobStatus(o, dt)) { o.t += dt; o.hurt = Math.max(0, o.hurt - dt); return; } if (T.ambush) o.sk = o.chasing ? null : T.ambush; if ((o.tame || o.charm > 0) && allyMobAI(o, dt)) return; if (T.ai === 'mvp') { mvpAI(o, dt, live, strikeOn); return; } o.t += dt; o.alpha = Math.min(1, o.alpha + dt * .8); o.hurt = Math.max(0, o.hurt - dt); o.cd = Math.max(0, o.cd - dt); o.lunge = Math.max(0, o.lunge - dt * 3); o.stT -= dt; o.ab -= dt; o.shotT -= dt;
       // objetivo: el jugador vivo más cercano que lo pueda ver
       let tg = null, best = 1e9; live.forEach(p => { if (T.fac && p.fac === T.fac) return; const d = Math.hypot(p.x - o.x, p.y - o.y); if (d < T.sight * p.sm * (o.chasing ? 1.4 : 1) && d < best) { best = d; tg = p; } });
       if (T.fac && !T.boss && !T.passive && facHelp(o, T, dt, PLS)) return;

diff --git a/www/cenizas-sheets.js b/www/cenizas-sheets.js
@@ -41,7 +41,7 @@
   /* precarga lo que se usa siempre */
   ['base_h1', 'base_h2', 'base_m1', 'base_m2'].flatMap(b => [b, b + '_reg']).concat(Object.values(NPC_SHEET), Object.values(MOB_SHEET)).forEach(n => load('/a/pj/' + n + '.png'));
   const SEL = ["sel01", "sel02", "sel03", "sel04", "sel05", "sel07", "sel08", "sel09", "sel11", "sel12", "sel13", "sel14", "sel15", "sel16", "sel17", "sel18", "sel20", "sel21", "sel22", "sel23", "sel24", "sel25", "sel26", "sel27", "sel29", "sel31", "sel34", "sel35"];
-  const ALL = ["joker", "joker_baile", "joker_oro", "joker_lazo", "baston", "baston_atk", "tiempo", "tiempo_atk", "tiempo_stop", "tiempo_stop2", "virtuoso", "virt_elec", "virt_voz", "virt_libro", "reina", "reina_nigro", "reina_rayo", "reina_sombra", "reina_hielo", "reina_fuego", "lich", "tinta", "segador", "caminante", "distorsion", "distorsion_atk", "gemela", "gemela_atk", "gemelo", "gemelo_atk", "mosca", "mosca_real", "muerte", "muerte_f2", "carbon_m", "carbon_h", "slave", "slave_rep", "slave_garra", "gordo", "gordo_atk", "flaco", "flaco_atk", "enano", "enano_atk", "rosa_mvp", "rosa_cuervos", "rosa_sombra", "rocio_mvp", "rocio_fuego", "natsume_mvp", "natsume_inv", "natsume_dash", "alba", "ricardo", "sofia_npc", "daniel", "gisella", "isa", "katy", "nata", "lucre", "lilia_f1", "lilia_f2", "lilia_f3", "mercedes_oscura", "lumen_anciana", "lumen_anciano", "lumen_samurai_urbano", "lumen_katana", "lumen_explorador", "lumen_peregrino", "lumen_samurai", "lumen_viajero", "lumen_arquera", "lumen_peregrina", "gato_luna", "gato_chita", "gato_chino", "gato_bianca", "admin_saco", "fin_ork01", "fin_ork02", "fin_ork03", "fin_ork04", "fin_ork05", "fin_ork06", "fin_ork07", "fin_ork08", "fin_ork09", "fin_ork10", "fin_ork11", "fin_ork12", "fin_ork13", "fin_ork14", "fin_reb01", "fin_reb02", "fin_reb03", "fin_reb04", "fin_reb05", "fin_reb06", "fin_reb07", "fin_reb08", "fin_reb09", "fin_reb10", "fin_reb11", "fin_reb12", "fin_reb13", "fin_reb14", "fin_reb15", "fin_reb16", "agente_patrulla_ork", "ani", "anita", "anixa", "arshi", "azu", "bong", "carolina", "cin", "civil_anciano", "civil_hombre", "civil_m", "civil_mujer", "civil_nene", "civil_trabajador", "claudia", "corredor_final", "corredor_incinerario", "cyn", "dario", "ding", "doctor_ork", "el_sabio", "espectro", "ex01", "ex02", "ex03", "ex04", "ex05", "ex06", "ex07", "ex08", "ex09", "ex10", "ex11", "ex12", "ex13", "ex14", "ex15", "ex16", "ex17", "ex18", "ex19", "ex20", "ex21", "ex22", "ex23", "ex24", "ex25", "ex26", "ex27", "ex28", "ex29", "ex30", "ex31", "ex32", "ex33", "ex34", "ex35", "ex36", "ex37", "ex38", "ex39", "ex40", "ex41", "eze", "gato", "giuliana", "gusty", "ignacio", "instructor_ork", "irene", "jaqui", "jem", "joaco", "jota", "jota_viejo", "julieta", "kamikaze", "laura", "le_cape", "lean", "leti", "lilia", "lucas", "lucas_hermano", "luis", "mariano", "mariela", "marta", "mary_futuro", "maxi", "mercedes", "mole", "natsume", "norbert", "oficial_ork", "oscuro_hombre", "oscuro_mujer", "pablo_1", "pablo_2", "pablo_3", "pablo_4", "pablo_futuro", "f_aventurera", "f_mecanica", "f_rubia", "f_urbana", "f_cientifica", "f_medica", "f_medica2", "f_hacker", "f_hacker2", "f_oficinista", "h_barbudo", "h_periodista", "h_rockero", "h_picaro", "h_explorador", "h_panuelo", "h_poncho", "h_soldado", "h_mercenario", "h_guerrero", "h_cientifico", "h_espia", "pol_alter", "pol_futuro", "raul", "renzo", "rocio", "romina", "rosa", "ruben", "sabueso", "sam", "sasha", "sel01", "sel02", "sel03", "sel04", "sel05", "sel07", "sel08", "sel09", "sel11", "sel12", "sel13", "sel14", "sel15", "sel16", "sel17", "sel18", "sel20", "sel21", "sel22", "sel23", "sel24", "sel25", "sel26", "sel27", "sel29", "sel31", "sel34", "sel35", "sofia_buena", "sofia_mala", "teby", "tecnico_ork", "tincho", "toby", "tomy", "vanesa", "viajero", "yuki"];
+  const ALL = ["sangre", "brea_a", "brea_a_charco", "brea_b", "brea_b_charco", "lich_inv", "joker", "joker_baile", "joker_oro", "joker_lazo", "baston", "baston_atk", "tiempo", "tiempo_atk", "tiempo_stop", "tiempo_stop2", "virtuoso", "virt_elec", "virt_voz", "virt_libro", "reina", "reina_nigro", "reina_rayo", "reina_sombra", "reina_hielo", "reina_fuego", "lich", "tinta", "segador", "caminante", "distorsion", "distorsion_atk", "gemela", "gemela_atk", "gemelo", "gemelo_atk", "mosca", "mosca_real", "muerte", "muerte_f2", "carbon_m", "carbon_h", "slave", "slave_rep", "slave_garra", "gordo", "gordo_atk", "flaco", "flaco_atk", "enano", "enano_atk", "rosa_mvp", "rosa_cuervos", "rosa_sombra", "rocio_mvp", "rocio_fuego", "natsume_mvp", "natsume_inv", "natsume_dash", "alba", "ricardo", "sofia_npc", "daniel", "gisella", "isa", "katy", "nata", "lucre", "lilia_f1", "lilia_f2", "lilia_f3", "mercedes_oscura", "lumen_anciana", "lumen_anciano", "lumen_samurai_urbano", "lumen_katana", "lumen_explorador", "lumen_peregrino", "lumen_samurai", "lumen_viajero", "lumen_arquera", "lumen_peregrina", "gato_luna", "gato_chita", "gato_chino", "gato_bianca", "admin_saco", "fin_ork01", "fin_ork02", "fin_ork03", "fin_ork04", "fin_ork05", "fin_ork06", "fin_ork07", "fin_ork08", "fin_ork09", "fin_ork10", "fin_ork11", "fin_ork12", "fin_ork13", "fin_ork14", "fin_reb01", "fin_reb02", "fin_reb03", "fin_reb04", "fin_reb05", "fin_reb06", "fin_reb07", "fin_reb08", "fin_reb09", "fin_reb10", "fin_reb11", "fin_reb12", "fin_reb13", "fin_reb14", "fin_reb15", "fin_reb16", "agente_patrulla_ork", "ani", "anita", "anixa", "arshi", "azu", "bong", "carolina", "cin", "civil_anciano", "civil_hombre", "civil_m", "civil_mujer", "civil_nene", "civil_trabajador", "claudia", "corredor_final", "corredor_incinerario", "cyn", "dario", "ding", "doctor_ork", "el_sabio", "espectro", "ex01", "ex02", "ex03", "ex04", "ex05", "ex06", "ex07", "ex08", "ex09", "ex10", "ex11", "ex12", "ex13", "ex14", "ex15", "ex16", "ex17", "ex18", "ex19", "ex20", "ex21", "ex22", "ex23", "ex24", "ex25", "ex26", "ex27", "ex28", "ex29", "ex30", "ex31", "ex32", "ex33", "ex34", "ex35", "ex36", "ex37", "ex38", "ex39", "ex40", "ex41", "eze", "gato", "giuliana", "gusty", "ignacio", "instructor_ork", "irene", "jaqui", "jem", "joaco", "jota", "jota_viejo", "julieta", "kamikaze", "laura", "le_cape", "lean", "leti", "lilia", "lucas", "lucas_hermano", "luis", "mariano", "mariela", "marta", "mary_futuro", "maxi", "mercedes", "mole", "natsume", "norbert", "oficial_ork", "oscuro_hombre", "oscuro_mujer", "pablo_1", "pablo_2", "pablo_3", "pablo_4", "pablo_futuro", "f_aventurera", "f_mecanica", "f_rubia", "f_urbana", "f_cientifica", "f_medica", "f_medica2", "f_hacker", "f_hacker2", "f_oficinista", "h_barbudo", "h_periodista", "h_rockero", "h_picaro", "h_explorador", "h_panuelo", "h_poncho", "h_soldado", "h_mercenario", "h_guerrero", "h_cientifico", "h_espia", "pol_alter", "pol_futuro", "raul", "renzo", "rocio", "romina", "rosa", "ruben", "sabueso", "sam", "sasha", "sel01", "sel02", "sel03", "sel04", "sel05", "sel07", "sel08", "sel09", "sel11", "sel12", "sel13", "sel14", "sel15", "sel16", "sel17", "sel18", "sel20", "sel21", "sel22", "sel23", "sel24", "sel25", "sel26", "sel27", "sel29", "sel31", "sel34", "sel35", "sofia_buena", "sofia_mala", "teby", "tecnico_ork", "tincho", "toby", "tomy", "vanesa", "viajero", "yuki"];
   /* ROSTER: personajes para elegir. cls = clase ORK fija (0 militar · 1 científico · 2 espía) → esos son solo de ORK.
      model = personaje base (sin teñir a mano). */
   /* PERSONAJES CUSTOM: 6 hombres y 6 mujeres a los que se les cambia el color de piel, pelo, ropa y pantalón */
